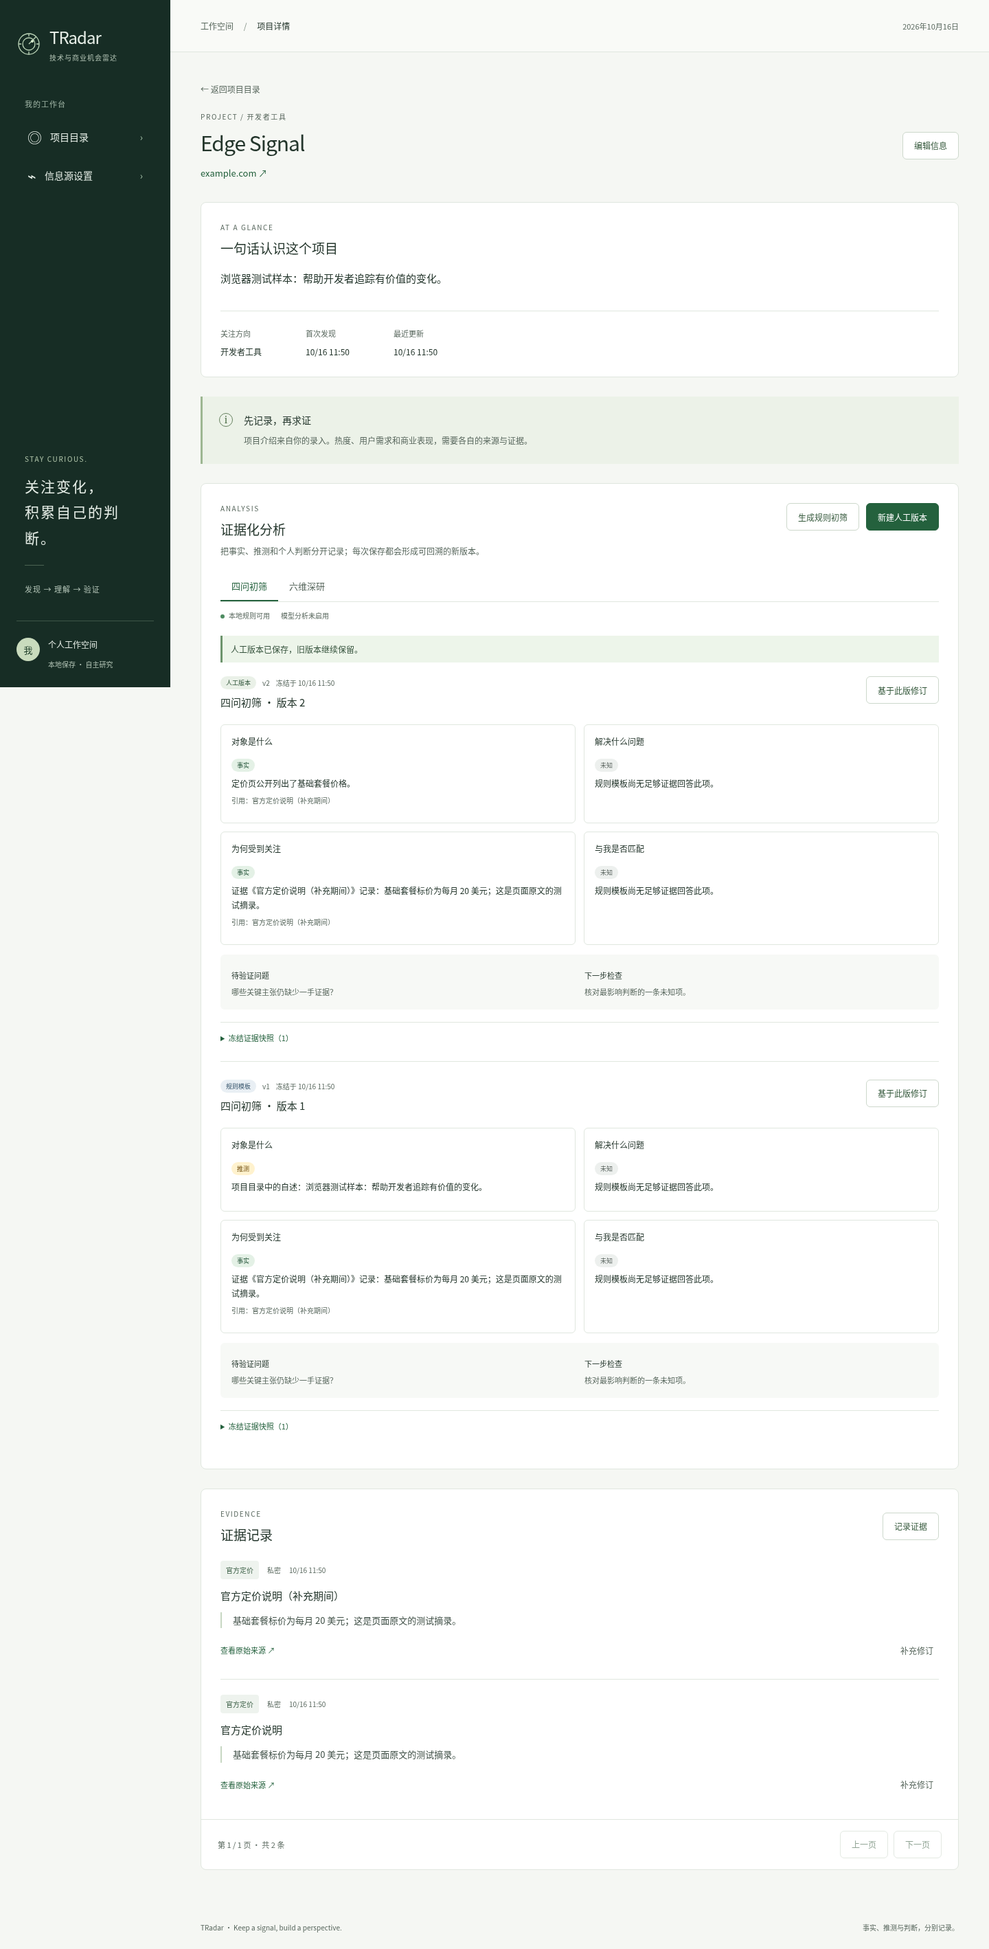
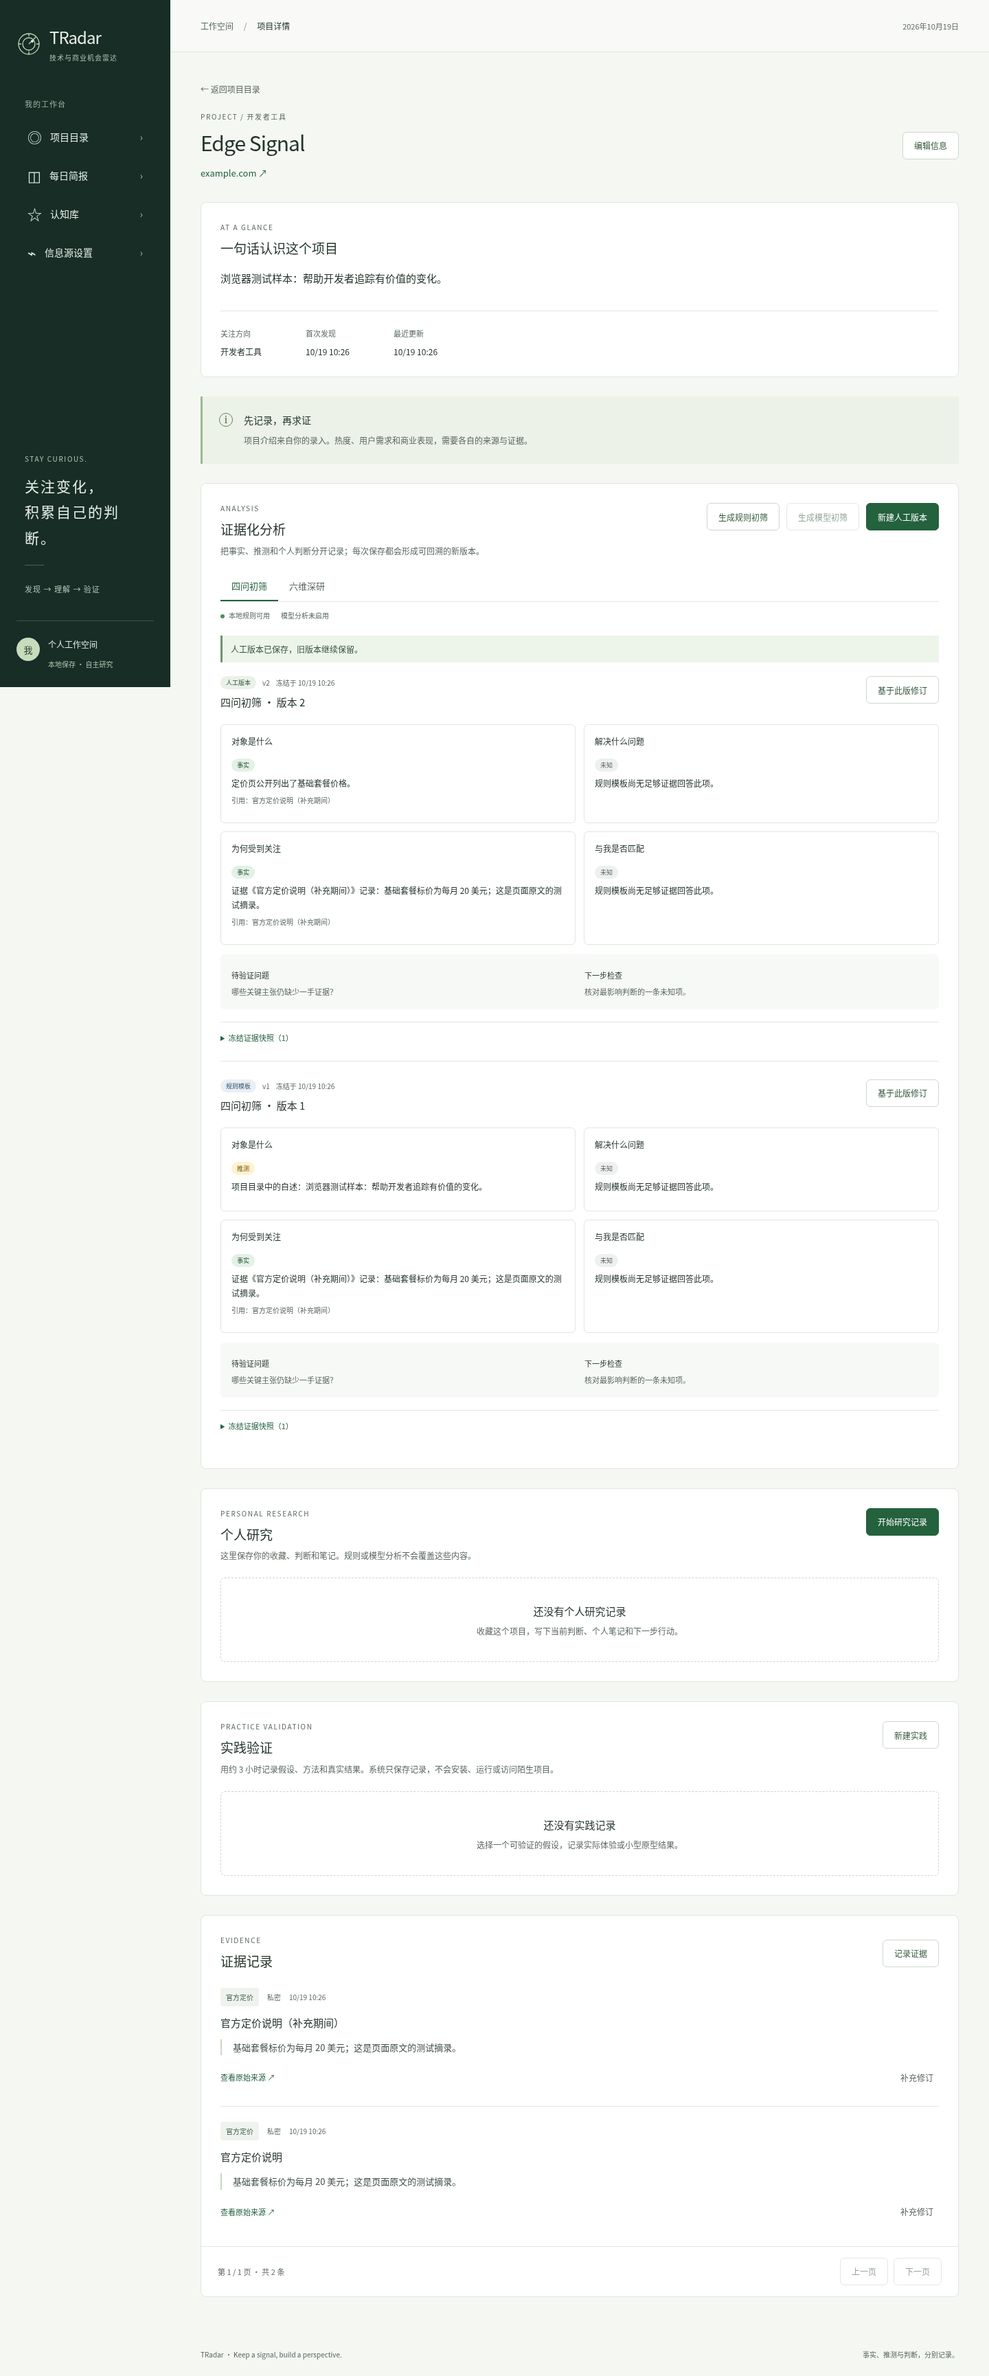
docs: record optional model workflow

diff --git a/docs/process/2026-10-19-t18-optional-model.md b/docs/process/2026-10-19-t18-optional-model.md
@@ -1,0 +1,133 @@
+# T18 可选模型：agent-skills 过程记录
+
+- 记录日期：2026-10-19（Asia/Shanghai）
+- 任务来源：`tasks/todo.md` 的 T18，`SPEC-project-analysis.md`
+- 状态：已完成
+- 实现与验收提交：见第 7 节（按领域、HTTP 接入、界面、文档拆分）
+
+## 1. 背景与边界
+
+T18 为既有人工/规则分析增加可选模型路径。默认状态必须保持关闭；没有完整配置时不能调用、
+联网或消耗额度。实现只做一次受限文本生成：冻结明确选择的公开证据和趋势，要求结构化 JSON，
+本地再次校验 schema 与证据引用，然后新增不可变 MODEL 分析版本。
+
+模型没有浏览、函数、文件、代码执行或其他工具权限。私密证据、个人研究正文、环境变量和凭据
+不得进入提示。真实付费调用不属于自动验证，全部验收使用可控假提供者。
+
+## 2. 采用的技能
+
+| 技能 | 采用原因 | 实际读取文件 |
+|---|---|---|
+| incremental-implementation | 按配置/提供者、冻结任务、预算、运行时、HTTP 接入分片 | `engineering/agent-skills/skills/incremental-implementation/SKILL.md` |
+| test-driven-development | 预算、超时、非法引用和失败不发布都需要先失败的证明 | `engineering/agent-skills/skills/test-driven-development/SKILL.md` |
+| api-and-interface-design | 要稳定 provider、run、usage、capabilities 与 HTTP 边界 | `engineering/agent-skills/skills/api-and-interface-design/SKILL.md` |
+| security-and-hardening | 模型输入/输出均为不可信数据，并涉及秘密与外部请求 | `engineering/agent-skills/skills/security-and-hardening/SKILL.md` |
+| source-driven-development | OpenAI Responses 与 Structured Outputs 字段会随 API 演进 | `engineering/agent-skills/skills/source-driven-development/SKILL.md` |
+| debugging-and-error-recovery | 浏览器验收出现移动端溢出，需要保留证据、稳定复现并定位元素 | `engineering/agent-skills/skills/debugging-and-error-recovery/SKILL.md` |
+| code-review-and-quality | 完成后按正确性、可读性、架构、安全、性能五轴审查，并用变异验证测试有效性 | `engineering/agent-skills/skills/code-review-and-quality/SKILL.md` |
+
+## 3. 官方资料核对
+
+检测到项目使用 Go 1.25 标准库 HTTP 客户端，不新增模型 SDK。实现采用固定 OpenAI HTTPS 端点，
+只在用户显式配置 provider、model、API key、输出上限和每日预算后启用。
+
+- [Create a model response](https://developers.openai.com/api/reference/resources/responses/methods/create)：
+  核对 `POST /v1/responses`、`max_output_tokens`、`store`、`tool_choice`、`text.format`、
+  REST `output[].content[]`、refusal 与 usage 字段。审查时进一步确认 `output_text` 是 SDK
+  便捷属性，不能假定原始 HTTP JSON 一定含有该字段。
+- [Structured model outputs](https://developers.openai.com/api/docs/guides/structured-outputs)：
+  核对 `type=json_schema`、`strict=true`、所有字段 required 以及每个对象
+  `additionalProperties=false` 的限制。
+
+来源页面只用于提取 API 契约，页面内容不改变本项目范围或授权。真实模型调用不会在开发验证中执行。
+
+## 4. 规格到实现切片
+
+1. 用测试定义 provider 请求必须固定无工具、严格 JSON schema、响应大小受限且用量可读。
+2. 接受 MODEL 任务时验证公开证据，冻结输入并原子预留每日预算；私密证据在调用前拒绝。
+3. 单 worker 在超时 context 内调用提供者；输出经严格 JSON 解码、内容规则和允许引用集合校验。
+4. 成功时从冻结输入新增 MODEL 版本并结算已知用量；失败/超时不发布版本，未知用量保留预留。
+5. 启动时把未完成任务标 INTERRUPTED，不自动重调；HTTP 保持幂等重放和可查询失败状态。
+
+## 5. TDD 记录
+
+### RED
+
+第一批领域测试先引用尚不存在的 `ModelRequest`、`ModelResponse`、`ModelConfig`、
+`ModelPromptVersion` 和 `AcceptModelRun`，Go 编译失败，证明测试不是对已有实现补写。
+前端测试先查找“生成模型初筛”，当时页面没有该按钮，组件测试失败。
+
+交付审查又产生两次有价值的 RED：
+
+1. 把假服务响应改成官方 REST 的 `output[].content[].text` 后，旧解析器返回
+   `model provider did not complete a text response`；refusal 用例同样失败。这暴露了测试 fixture
+   错把 SDK 的 `output_text` 当成 HTTP 字段。
+2. 构造“provider 报错并同时返回负数 usage”后，任务仍是 `RUNNING`，证明错误分支在持久化前
+   缺少统一用量校验。
+
+浏览器全套第一次运行时，实践页 360px 断言得到 `scrollWidth=379`、`innerWidth=360`。
+临时 DOM 诊断精确指出超出视口的是“新建人工版本”按钮，而不是实践卡片自身。
+
+### GREEN / REFACTOR
+
+实现后的关键闭环如下：
+
+- migration 10 新增模型预算预留表；接受任务、冻结输入和预留预算在同一 SQLite 事务完成。
+- `ModelProvider` 只暴露受限文本生成接口；OpenAI 请求固定端点、禁重定向、`store=false`、
+  空 tools、`tool_choice=none` 和 strict JSON schema，响应解压后最多 1 MiB。
+- REST 解析遍历 `output`，忽略 reasoning item，只聚合已完成 message 的 `output_text` content，
+  显式拒绝 refusal、未知 message content、尾随 JSON和空文本。
+- runtime 只有一个 worker；超时、输出不合法、引用越界或用量不合法均落为失败任务，不发布版本，
+  也不会自动重试或回退到 RULES。重启把未完成 MODEL 任务标为 INTERRUPTED。
+- 模型上下文只包含冻结趋势与所选公开 Evidence 的允许字段；个人研究、私密证据、环境变量和凭据
+  不进入请求。输出在本地再次执行内容、声明类型和允许引用集合校验。
+- 前端只在 capabilities 明确启用后开放模型按钮；私密证据在模型模式禁选，失败保留选择和幂等 key，
+  成功后重新读取冻结的 MODEL 版本并提示人工核对。
+- 移动端把三按钮容器改为纵向布局；重新构建 `web/dist` 后，原失败浏览器场景和全套均通过。
+
+## 6. 问题、根因与修正
+
+| 现象 | 根因 | 修正与防回归 |
+|---|---|---|
+| 官方 REST 形状测试失败 | fixture 使用了 SDK-only `output_text`，实现也随之解析错误字段 | fixture 改为官方 `output[].content[]`；解析器遍历 message content，并新增 refusal 测试 |
+| provider 错误携带负 usage 时任务卡在 RUNNING | 错误分支先持久化 usage，负数导致 marshal 拒绝且状态更新未执行 | 所有 provider 结果先校验 usage；非法值以 `MODEL_USAGE_INVALID` 失败并保留预算预留 |
+| 第一次全量浏览器验收移动端横向溢出 | 新增第三个 100% 宽按钮，但移动端 flex 容器仍横向 | 760px 以下切换为 column；现有 360px 回归用例覆盖该问题 |
+| 样式修正后第一次聚焦复验仍失败 | Playwright 服务读取 `web/dist`，当时只改了源 CSS，没有重建产物 | 重建 Vite 产物后复验；流程中明确“浏览器验收前先 build” |
+| Prettier 首次命令报告找不到文件 | 从仓库根执行时给了相对 `web` 工作目录的路径 | 改在 `web/` 执行并确认实际匹配四个变更文件 |
+
+安全审查把 trust boundary 划为：HTTP 输入、Evidence/趋势快照、模型 REST 返回、模型生成 JSON、
+运行环境配置。资产包括 API key、私密研究内容、每日额度和不可变分析历史。对应控制为字段白名单、
+公开标记双重校验、固定远端/禁重定向、严格输出校验、预算预留、超时、无工具和秘密不落库不回传。
+
+按 code-review-and-quality 的要求做了变异实验：临时把 `if !item.IsPublic` 反转后运行
+`TestModelRunRejectsPrivateEvidenceAndBudgetBeforeProvider`，测试按预期失败并报告私密证据边界被破坏；
+恢复条件后同一测试通过。这证明关键测试能捕获安全回归，而不是只覆盖成功路径。
+
+## 7. 验证、产物与剩余限制
+
+实际执行并通过：
+
+```sh
+GOTOOLCHAIN=local GOCACHE=/tmp/tradar-go-cache go test -race ./...
+GOTOOLCHAIN=local GOCACHE=/tmp/tradar-go-cache go vet ./...
+npm --prefix web run test -- --run
+npm --prefix web run build
+npm --prefix web run test:e2e
+npm --prefix web audit --offline --json
+```
+
+结果：Go 全包 race 与 vet 通过；Vitest 9 个文件、16 个测试通过；Vite 构建成功；
+Playwright 7/7 通过；npm 离线审计 0 条已知漏洞。聚焦的模型测试还覆盖预算耗尽、私密证据、
+输入冻结、实际/未知用量、超时、重启中断、越界引用、尾随 JSON、恶意 HTML 文本、refusal、
+非法 usage、HTTP 幂等重放与能力接口秘密隔离。
+
+界面证据更新为 [`analysis-desktop.png`](../screenshots/analysis-desktop.png)，可看到默认关闭的模型入口。
+真实 OpenAI 调用保持未执行，未消耗额度；首次启用仍由用户提供模型名、密钥、输出上限与 UTC
+每日预算。模型自然语言是否忠实于来源无法只靠 schema 证明，因此 MODEL 版本始终要求人工核对。
+
+提交拆分：
+
+- `acd3d76 feat: add budgeted model analysis runtime`
+- `8ac0884 feat: expose optional model analysis`
+- `7381557 feat: add guarded model analysis flow`
+- `docs: record optional model workflow`（本记录所在提交）

diff --git a/docs/verification.md b/docs/verification.md
@@ -33,6 +33,9 @@
 | 趋势排序与雷达 | `trend-v1` 主信号评分、同平台去重、跨源加分、缺持续性部分结果、稳定并列排序和三点异常提示均有纯函数测试；SQLite 查询先评分后筛选分页，24h/7d 与来源筛选经 Chromium 验证 |
 | 分析版本与规则 | SCREEN 四节、DEEP 六节、事实引用、跨项目拒绝、版本递增、规则模板、创始人自述标签、私密证据本地使用、冻结证据/趋势、来源重关联和项目版本变化均由数据库及 HTTP 测试覆盖 |
 | 分析界面 | 证据选择、规则初筛、人工事实修订、旧版本保留、公开/私密快照、事实/推测/判断/未知标签、上下文变化提示和模型关闭状态经组件及 Chromium 验证；axe 违规为零 |
+| 可选模型运行时 | 默认关闭；完整显式配置才启用。接受任务时只冻结明确选择的公开证据、项目版本和趋势，在 SQLite 事务内按 provider/model/UTC 日期预留预算；已知用量结算，未知用量及中断保留预留。超时、非法 JSON、越界引用、JUDGMENT、非法用量和重启中断均不发布半成品版本，也不降级为规则成功 |
+| OpenAI 提供者边界 | 固定 HTTPS Responses 端点，`store=false`、空 tools、`tool_choice=none`、严格 JSON schema、1 MiB 响应上限及禁重定向；按 REST `output[].content[]` 读取文本并拒绝 refusal，API key 不进入响应或日志。请求形状、用量、REST 响应、refusal 和超限均由本地假服务验证，未消耗真实额度 |
+| 模型接口与界面 | HTTP 创建为持久化后的异步 202，稳定 Location/ETag 与幂等重放只调用一次 provider；能力接口不返回秘密。启用态组件验证私密证据不可选择、只提交公开 ID、轮询完成和 MODEL 版本显示；默认关闭态及新增第三个操作按钮的 360px 布局经 Chromium 验证 |
 | 个人研究数据与 API | 单项目唯一记录、默认值、Unicode NFC 标签归一化、拉丁大小写去重、字段边界、过滤搜索、幂等创建、ETag/If-Match 冲突、重启持久化和个人正文不受项目变化影响，均由 SQLite 仓库及 HTTP 测试覆盖 |
 | 研究偏好 | 默认关注方向与 3/2/1 建议、0–100 边界、版本冲突和持久化均由仓库/API 测试覆盖；建议只提示节奏，不限制保存 |
 | 个人研究界面 | 项目详情创建/编辑、收藏/标签/阶段/判断/笔记/下一步、认知库搜索筛选、偏好设置及 360px 布局经组件和 Chromium 验证；412 会展示服务器最新版本并保留本地草稿，重试使用新 revision；axe 违规为零 |
@@ -56,10 +59,10 @@ npm --prefix web run test:e2e
 npm --prefix web audit --offline --json
 ```
 
-结果：Go 全部包通过 race 测试及 vet；Vitest 为 9 个文件、15 个测试通过；Vite 生产构建成功；
+结果：Go 全部包通过 race 测试及 vet；Vitest 为 9 个文件、16 个测试通过；Vite 生产构建成功；
 Playwright Chromium 为 7 条流程通过。浏览器流程覆盖项目创建、证据新增和修订、项目编辑、刷新、
 搜索、规则初筛、人工事实引用、版本上下文变化、个人研究保存与冲突合并、认知库筛选、
-实践创建/完成/证据引用/冲突合并/未保存确认、日报多版本/冻结证据/安全下载、移动端布局、来源配置和手动采集，页面错误为零，
+实践创建/完成/证据引用/冲突合并/未保存确认、日报多版本/冻结证据/安全下载、模型默认关闭状态、移动端布局、来源配置和手动采集，页面错误为零，
 所检查页面 axe 违规为零。npm 完整依赖
 审计为 0 条已知漏洞。真实冒烟通过显式 `TRADAR_LIVE_SMOKE=1` 单独执行，不属于默认测试联网行为。
 
@@ -76,6 +79,7 @@ Playwright Chromium 为 7 条流程通过。浏览器流程覆盖项目创建、
 ## 当前限制
 
 Product Hunt 真实接口尚未使用用户账号 Token 联调，GitHub 日历史也未在真实冒烟中覆盖。
-演示模式和可选模型尚未实现。当前运行不会访问人工录入或实践产物的 URL，
+演示模式尚未实现；可选模型已实现但默认关闭，尚未执行真实 OpenAI 付费调用。
+当前运行不会访问人工录入或实践产物的 URL，
 也不会静默生成演示指标或商业结论。
 公网发布、付费服务与外部通知不在当前授权范围内。

diff --git a/README.md b/README.md
@@ -2,7 +2,7 @@
 
 个人技术趋势与商业机会雷达：发现正在增长的项目，保存可追溯证据，形成研究判断和行动。
 
-**当前状态：首版实施中。项目目录、不可变证据、三来源采集、趋势雷达、人工与规则分析、个人研究记录、认知库、实践验证和可回溯日报已经实现。**
+**当前状态：首版实施中。项目目录、不可变证据、三来源采集、趋势雷达、人工/规则/可选模型分析、个人研究记录、认知库、实践验证和可回溯日报已经实现。**
 
 - [能力图与首版范围](CAPABILITY-MAP.md)
 - [首版详细规格总览](docs/spec-overview.md)
@@ -25,7 +25,9 @@
 真实小流量冒烟及 Product Hunt GraphQL fixture 已验证。Product Hunt 真实采集仍需用户自己的 Token，
 缺少凭据时会明确显示不可用，不会回退成演示结果。
 项目详情可生成四问初筛或六维深研规则版本，也可人工修订；事实必须引用证据，历史版本会冻结
-证据和趋势上下文。私密证据只供本地规则与人工分析使用，当前模型分析保持关闭。
+证据和趋势上下文。可选模型路径默认关闭，只有完整配置 OpenAI 模型、密钥、输出上限、UTC 日预算
+和超时后才启用；它只发送本次明确选择的公开证据，不授予浏览或工具权限。私密证据只供本地规则
+与人工分析使用，模型输出经本地 schema 和引用校验后仍标记为待人工核对。
 项目详情可保存收藏、标签、判断依据、个人笔记及下一步；认知库支持搜索和筛选，设置页可调整
 关注方向与 3/2/1 研究建议。并发编辑会展示服务器最新版本，同时保留本地草稿供手工合并。
 实践验证可记录假设、方法、时间预算、结果、结论、项目证据和产物链接；链接只保存和显示，

diff --git a/SPEC-project-analysis.md b/SPEC-project-analysis.md
@@ -1,6 +1,6 @@
 # SPEC — project-analysis
 
-状态：**人工与规则分析已实现并验证；可选模型留待 T18**。日期：2026-10-16。
+状态：**人工、规则与可选模型分析均已实现并验证**。日期：2026-10-19。
 范围依据：[能力图](CAPABILITY-MAP.md)；共享技术、运行、安全、API 与测试约定见
 [spec-common](docs/spec-common.md)。本文只定义规格，不包含实施计划。
 
@@ -162,8 +162,8 @@ interface AnalysisCapabilities {
 实现目标为 `internal/analysis/`、相邻 `*_test.go`、`internal/httpapi/` 及
 `web/src/AnalysisPanel.tsx`。采用 spec-common 中 Go/TypeScript 风格、类型示例、版本策略及全量命令；
 本模块目标验证命令为 `go test -race ./internal/analysis/... ./internal/httpapi/...`。
-人工与规则分析路径已经实现；目标命令及完整浏览器路径的实际结果记录在
-[验证记录](docs/verification.md)。模型提供者、预算与异步失败场景仍由 T18 实现。
+人工、规则与可选模型路径已经实现；目标命令及完整浏览器路径的实际结果记录在
+[验证记录](docs/verification.md)。真实付费模型调用保持显式 opt-in，自动验证使用假提供者。
 
 ## 验收场景
 

diff --git a/docs/spec-overview.md b/docs/spec-overview.md
@@ -42,7 +42,7 @@ Go/SQLite 服务与 React 界面已经建立，依赖锁定，项目目录、URL
 趋势窗口、可解释排序、查询 API 和雷达交互也已实现。人工与本地规则分析支持四问/六维、
 事实引用、不可变版本、冻结快照及上下文变化提示。个人研究记录、研究偏好和认知库已接通，
 支持版本冲突下保留本地草稿并对照服务器版本。实践验证已支持假设、方法、时间、结果、结论、
-证据和产物链接，且不会访问或执行链接内容；日报及可选模型尚未实现。
+证据和产物链接，且不会访问或执行链接内容；日报及默认关闭的可选模型路径均已实现。
 
 后续可选配置包括 GitHub Token、PH Token、模型服务商和预算。
 这些不阻塞无模型的首版核心能力；真实外部服务是否联调成功会单独记录。

diff --git a/tasks/todo.md b/tasks/todo.md
@@ -45,7 +45,7 @@
   验证：DB-01..06/08/10；文件：brief models、selection、store、tests。
 - [x] T17 日报调度/导出/界面：冻结 Markdown、安全文本、时区边界、历史阅读。
   验证：DB-07/09、浏览器下载；文件：scheduler、markdown、API、页面、tests。
-- [ ] T18 可选模型：受限 JSON 输出、引用/预算/用量、超时中断，不自动工具调用。
+- [x] T18 可选模型：受限 JSON 输出、引用/预算/用量、超时中断，不自动工具调用。
   验证：AN-05/07、假提供者；文件：provider、budget、analysis runner、tests。
 - [ ] T19 集成与安全：全套测试、竞争检测、输入/同源/持久化/失效依赖审查。
   验证：Go race/vet、前端类型/测试/构建、浏览器完整闭环、漏洞检查。

diff --git a/docs/process/README.md b/docs/process/README.md
@@ -23,7 +23,8 @@
 | 任务 | 记录 | 状态 |
 |---|---|---|
 | T16 日报选择与版本 | [`2026-10-19-t16-daily-brief-core.md`](2026-10-19-t16-daily-brief-core.md) | 已完成，补记 |
-| T17 日报交付 | [`2026-10-19-t17-daily-brief-delivery.md`](2026-10-19-t17-daily-brief-delivery.md) | 进行中 |
+| T17 日报交付 | [`2026-10-19-t17-daily-brief-delivery.md`](2026-10-19-t17-daily-brief-delivery.md) | 已完成 |
+| T18 可选模型 | [`2026-10-19-t18-optional-model.md`](2026-10-19-t18-optional-model.md) | 已完成 |
 
 ## 后续记录模板
 
